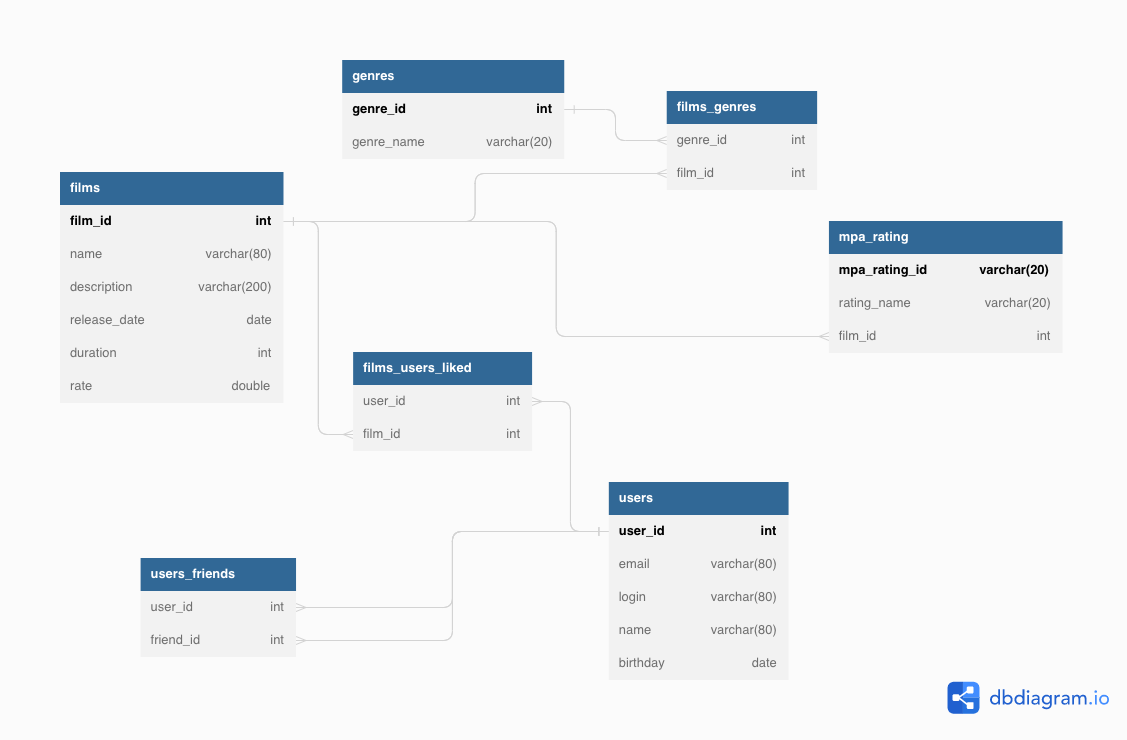
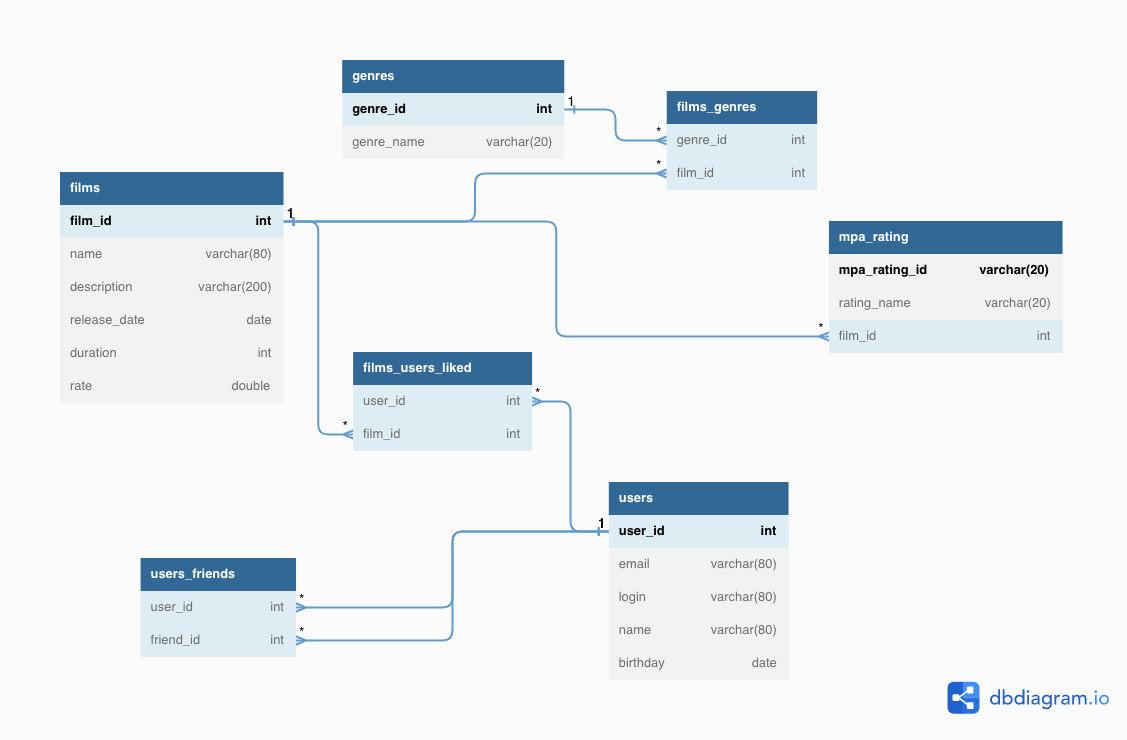
fix: fix README.md

diff --git a/README.md b/README.md
@@ -16,73 +16,68 @@ users_friends - таблица для отслеживания статуса д
 
 Код для создания базы данных:
 ```
-CREATE TABLE IF NOT EXISTS films
-(
-    film_id           int PRIMARY KEY AUTO_INCREMENT,
-    name         varchar(80),
-    description  varchar(200),
-    release_date date,
-    duration     int,
-    rate         double,
-    likes        int,
-    genres       varchar(20),
-    mpa_rating   varchar(20)
-
+CREATE TABLE `films` (
+  `film_id` int PRIMARY KEY AUTO_INCREMENT,
+  `name` varchar(80),
+  `description` varchar(200),
+  `release_date` date,
+  `duration` int,
+  `rate` double
 );
 
-CREATE TABLE IF NOT EXISTS genres
-(
-    genre_id int PRIMARY KEY,
-    genre_name varchar(20)
+CREATE TABLE `genres` (
+  `genre_id` int PRIMARY KEY,
+  `genre_name` varchar(20)
 );
 
-CREATE TABLE IF NOT EXISTS films_genres
-(
-    genre_id int NOT NULL,
-    film_id  int         NOT NULL,
-    FOREIGN KEY (genre_id) REFERENCES genres (genre_id),
-    FOREIGN KEY (film_id) REFERENCES films (film_id),
-    UNIQUE (genre_id, film_id)
+CREATE TABLE `films_genres` (
+  `genre_id` int NOT NULL,
+  `film_id` int NOT NULL
 );
 
-CREATE TABLE IF NOT EXISTS users
-(
-    user_id     int         NOT NULL PRIMARY KEY AUTO_INCREMENT,
-    email    varchar(80) NOT NULL UNIQUE,
-    login       varchar(80) UNIQUE,
-    name        varchar(80),
-    birthday    date,
-    friends     int,
-    films_liked int
-
+CREATE TABLE `users` (
+  `user_id` int PRIMARY KEY NOT NULL AUTO_INCREMENT,
+  `email` varchar(80) UNIQUE NOT NULL,
+  `login` varchar(80) UNIQUE,
+  `name` varchar(80),
+  `birthday` date
 );
 
-CREATE TABLE IF NOT EXISTS users_friends
-(
-    user_id   int NOT NULL,
-    friend_id int NOT NULL,
-    FOREIGN KEY (user_id) REFERENCES users (user_id),
-    FOREIGN KEY (friend_id) REFERENCES users (user_id),
-    UNIQUE (user_id, friend_id)
+CREATE TABLE `users_friends` (
+  `user_id` int NOT NULL,
+  `friend_id` int NOT NULL
 );
 
-
-CREATE TABLE IF NOT EXISTS films_users_liked
-(
-    user_id int NOT NULL,
-    film_id  int  NOT NULL,
-    FOREIGN KEY (user_id) REFERENCES users (user_id),
-    FOREIGN KEY (film_id) REFERENCES films (film_id),
-    UNIQUE (user_id, film_id)
+CREATE TABLE `films_users_liked` (
+  `user_id` int NOT NULL,
+  `film_id` int NOT NULL
 );
 
-CREATE TABLE IF NOT EXISTS mpa_rating
-(
-    mpa_rating_id varchar(20) PRIMARY KEY AUTO_INCREMENT,
-    rating_name varchar(20),
-    film_id int,
-    FOREIGN KEY (film_id) REFERENCES films (film_id)
+CREATE TABLE `mpa_rating` (
+  `mpa_rating_id` varchar(20) PRIMARY KEY AUTO_INCREMENT,
+  `rating_name` varchar(20),
+  `film_id` int
 );
+
+CREATE UNIQUE INDEX `films_genres_index_0` ON `films_genres` (`genre_id`, `film_id`);
+
+CREATE UNIQUE INDEX `users_friends_index_1` ON `users_friends` (`user_id`, `friend_id`);
+
+CREATE UNIQUE INDEX `films_users_liked_index_2` ON `films_users_liked` (`user_id`, `film_id`);
+
+ALTER TABLE `films_genres` ADD FOREIGN KEY (`genre_id`) REFERENCES `genres` (`genre_id`);
+
+ALTER TABLE `films_genres` ADD FOREIGN KEY (`film_id`) REFERENCES `films` (`film_id`);
+
+ALTER TABLE `users_friends` ADD FOREIGN KEY (`user_id`) REFERENCES `users` (`user_id`);
+
+ALTER TABLE `users_friends` ADD FOREIGN KEY (`friend_id`) REFERENCES `users` (`user_id`);
+
+ALTER TABLE `films_users_liked` ADD FOREIGN KEY (`user_id`) REFERENCES `users` (`user_id`);
+
+ALTER TABLE `films_users_liked` ADD FOREIGN KEY (`film_id`) REFERENCES `films` (`film_id`);
+
+ALTER TABLE `mpa_rating` ADD FOREIGN KEY (`film_id`) REFERENCES `films` (`film_id`);
 ```
 
-![Схема БД](./src/main/resources/scheme.png)
+![Схема БД](./src/main/resources/schema.png)
